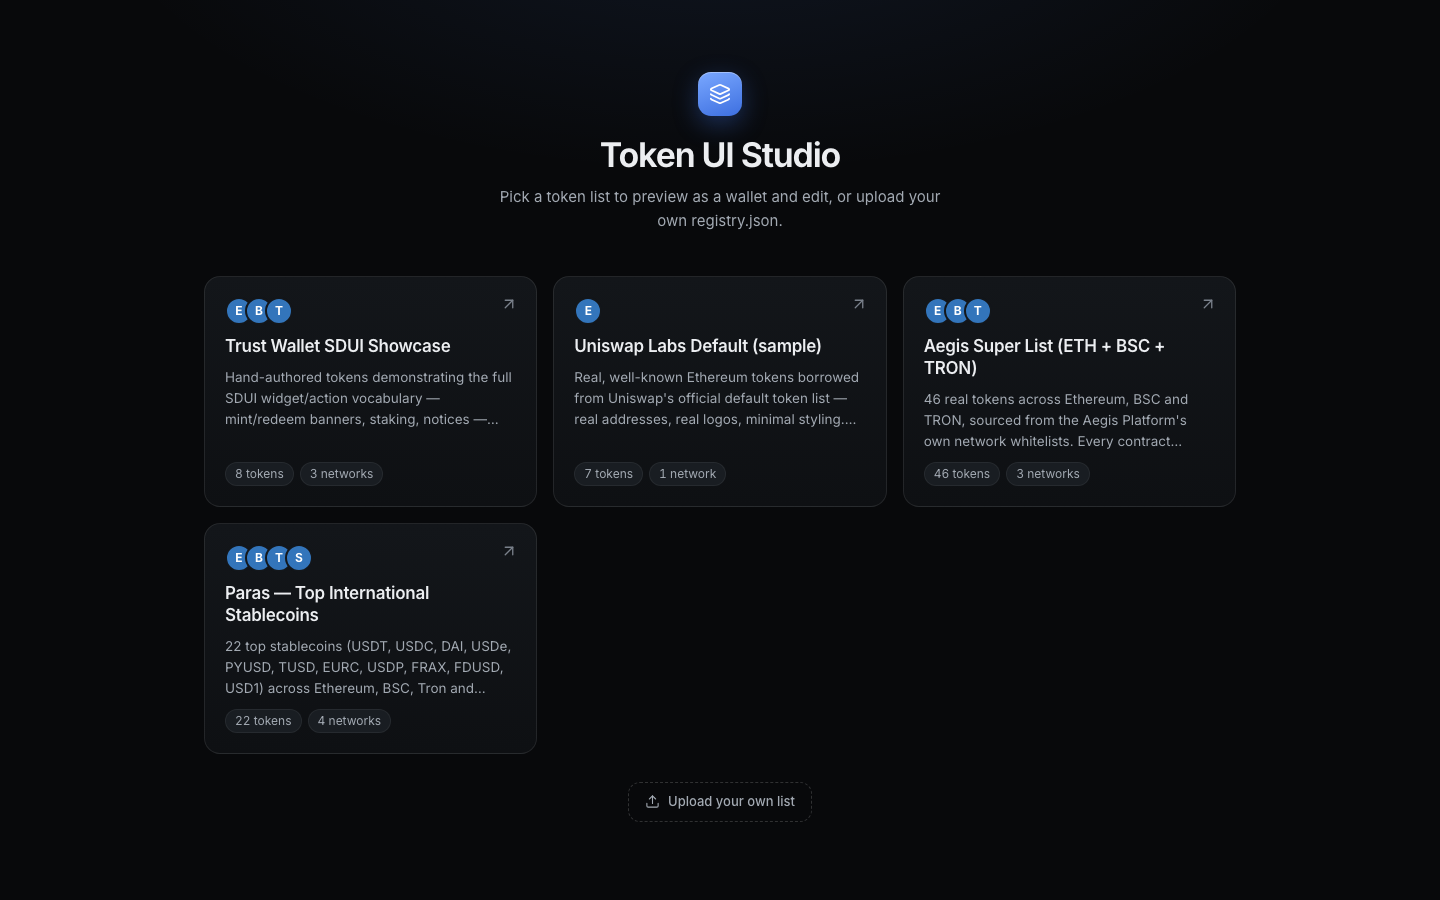
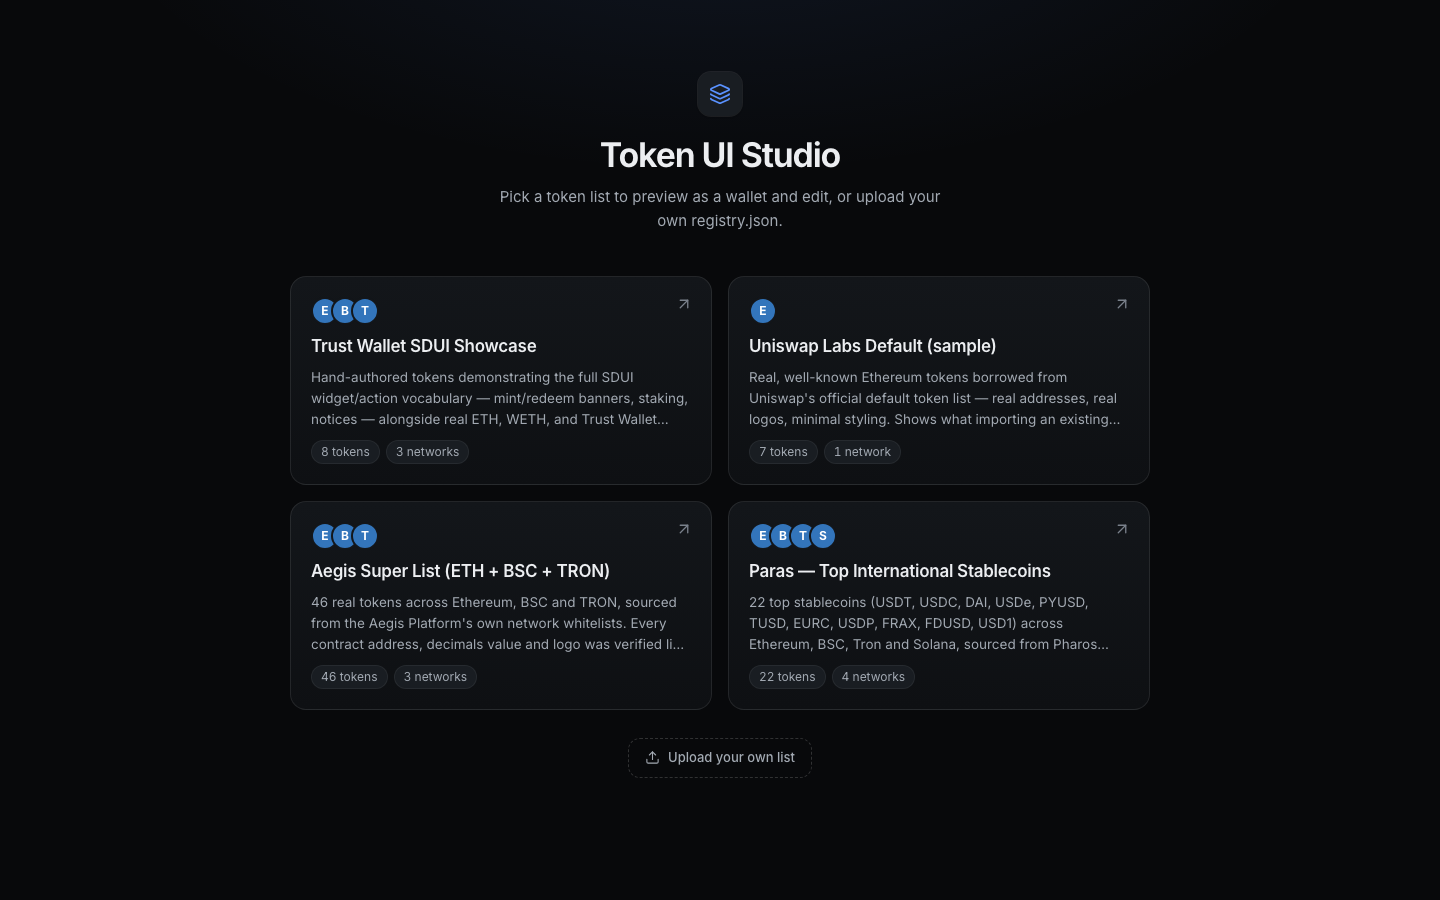
docs: design review of the redesign with before/after screenshots and a prioritized list

diff --git a/docs/designs/redesign/design-review.md b/docs/designs/redesign/design-review.md
@@ -1,0 +1,51 @@
+# Design review of the redesigned Token UI Studio (2026-10-14)
+
+Method: /design-review run against the local build, driven through Chromium (Playwright: gstack's own browser and Aside
+were not available on this machine). Pages: gallery, studio (1440, 1920, 768, 375), phone mode (`?view=phone`, iPhone 14),
+list, token, Send, Receive, dark and light, iOS and Android. Rendered design system extracted from the DOM; axe-core
+(serious and critical) is clean on all of them and now runs as an e2e test.
+
+## Verdict
+**Design score B, AI-slop score B-.** It reads as a competent 2025 developer tool wrapped around a clean iOS-style wallet.
+It is modern and consistent, but not yet distinctive: it looks like "a good default", not like a product with its own
+point of view. The phone is the stronger half; the studio chrome is correct and quiet.
+
+| Category | Grade | Note |
+| --- | --- | --- |
+| Visual hierarchy | B | Clear focal points (phone in the middle, Send is the loudest control). Right panel competes: the trust-findings column is heavier than the editor it serves. |
+| Typography | B+ | Inter (studio) and the platform font (phone), tight titles, tabular numbers, mono for code and addresses. One miss fixed: the Send hint was monospace. |
+| Spacing and layout | B | 4-pt rhythm, 16-px gutters, phone always fits. The gallery was 3 + 1 (fixed to 2 x 2). |
+| Color and contrast | B | One cool accent, neutral surfaces, WCAG AA on every checked screen. Studio is dark-only. |
+| Interaction states | B- | Focus rings, hover lift, disabled states exist. Token rows were mouse-only (fixed). No pressed/loading polish on the phone. |
+| Responsive | B+ | Phone mode, safe areas, tablet column. Touch targets were 29-34 px on Back/Lists (fixed to 44). |
+| Content and microcopy | B | Plain, specific. Sample chart no longer invents a price. |
+| AI slop | B- | A gradient icon tile above the heading and equal card grid were the tells; the tile is flat now. The rest is restrained. |
+| Motion | C+ | Almost none: screen changes in the phone cut instantly. This is the biggest gap to "refined". |
+| Performance feel | B | Fonts self-hosted, no layout shift. Logos flash a letter before the image arrives. |
+
+## First impression (gallery)
+I land on a dark page with a small icon tile, a bold title and four near-identical cards. My eye goes to the title, then
+the first card, then the arrow icons. It says "developer tool", competently. Nothing says *what you will see* until you
+open a list: the cards show network logos, not the product's own output.
+
+## Fixed in this pass (one commit each)
+1. FINDING-001: gallery lists as 2 x 2; brand tile flat instead of a glowing gradient.
+2. FINDING-002: balanced large title (no orphaned "+ TRON)"); Back and Lists are 44-px touch targets.
+3. FINDING-003: Send address hint in the UI font, not monospace.
+4. FINDING-004: token rows (sidebar and phone list) reachable and operable by keyboard.
+Earlier in the branch: contrast, field label, landmarks, honest sample chart, tablet column.
+
+## What would make it feel refined (prioritized, not done)
+1. **Screen transitions in the phone** (push/pop slide ~280 ms ease-out, dialogs as a sheet; none under reduced motion).
+2. **Large-title collapse and a blurred sticky bar** on scroll, like iOS.
+3. **Gallery cards that show the product**: a live mini phone of each list instead of generic network logos.
+4. **A wallet-home hero** (total balance, quick actions) so the phone looks like a wallet, not only a list.
+5. **Android as Material 3**: today it is iOS with a punch-hole; give it tonal buttons, a different top bar and ripple.
+6. **Editor**: syntax highlighting and inline error markers; trust findings collapsed by severity.
+7. **Loading polish**: fade logos in, skeletons for the chart, so no letter flash.
+8. **Light studio theme** following the system setting.
+9. **Live prices**: CoinGecko is rate-limited and blocked by CORS from the site, so most charts show the sample.
+   Cache prices in the Worker (stays within the free plan) or drop the live call.
+10. **Sidebar search** once a network has more than ~20 tokens.
+
+Screenshots: `docs/designs/redesign/review/` (before and after for the gallery and the iPhone list, studio at 1920).
